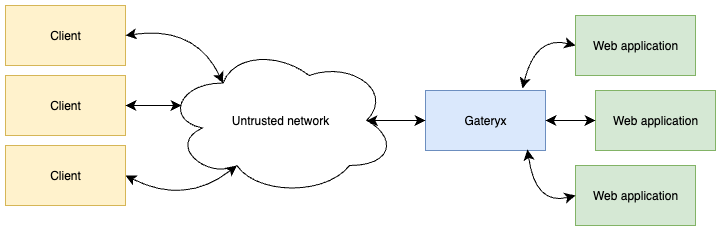
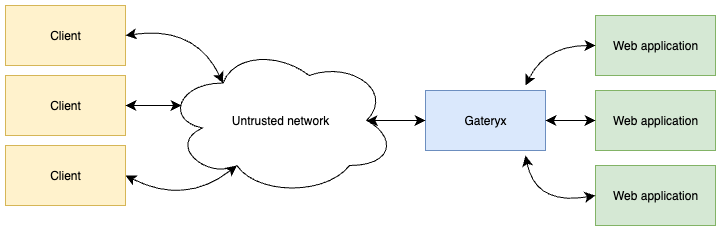
fmt

diff --git a/gateryx/install.rst b/gateryx/install.rst
@@ -54,7 +54,10 @@ Clone the repository, then run the following commands:
    git clone https://github.com/eva-ics/gateryx
    cd gateryx
    just auth-web system-web
-   just build-x86_64-unknown-linux-gnu # for aarch64 use build-aarch64-unknown-linux-gnu
+   cargo build --release
+
+The built binaries will be located in `target/release`. The auth and system web
+applications will be in `auth/dist` and `system/dist` respectively.
 
 To install the client only, do not clone the entire repository; instead, run:
 
